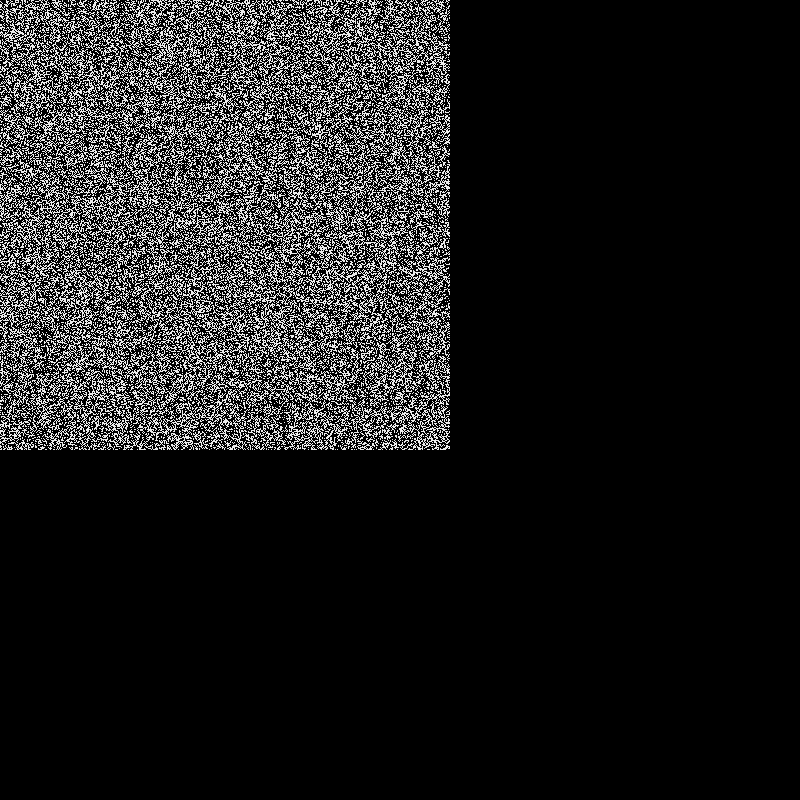
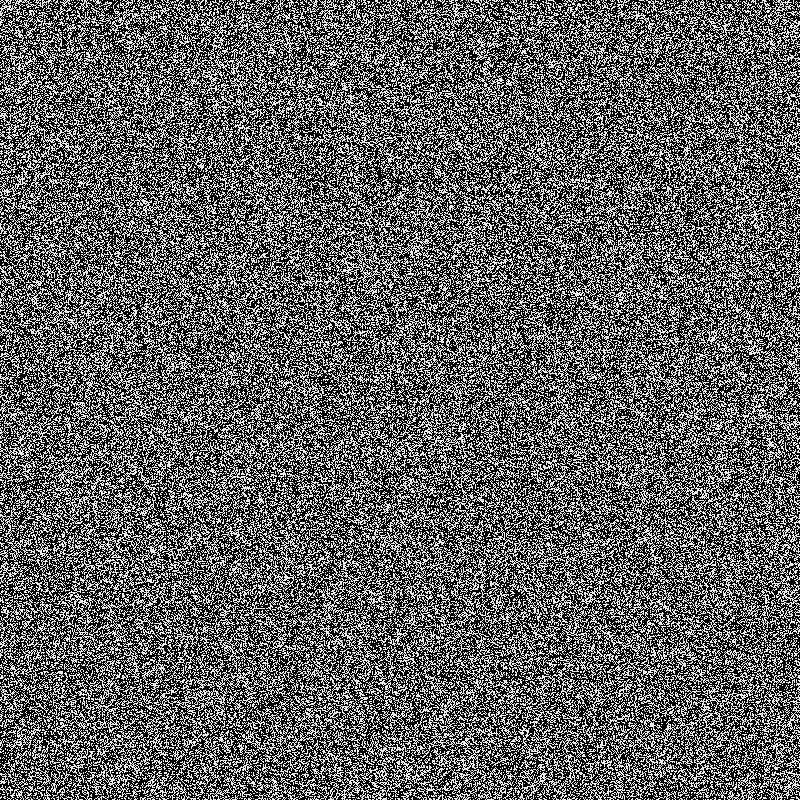
Changed resolution to fit canvas

diff --git a/repo/cairo-abstract.py b/repo/cairo-abstract.py
@@ -6,12 +6,12 @@ import random
 import itertools
 import numpy as np
 
-n = 450
+n = 800
 x = 800
 y = 800
 WIDTH = x
 HEIGHT = y
-PIXEL_SCALE = 10
+PIXEL_SCALE = 1
 
 surface = cairo.ImageSurface(cairo.FORMAT_RGB24,
                              WIDTH*PIXEL_SCALE,
